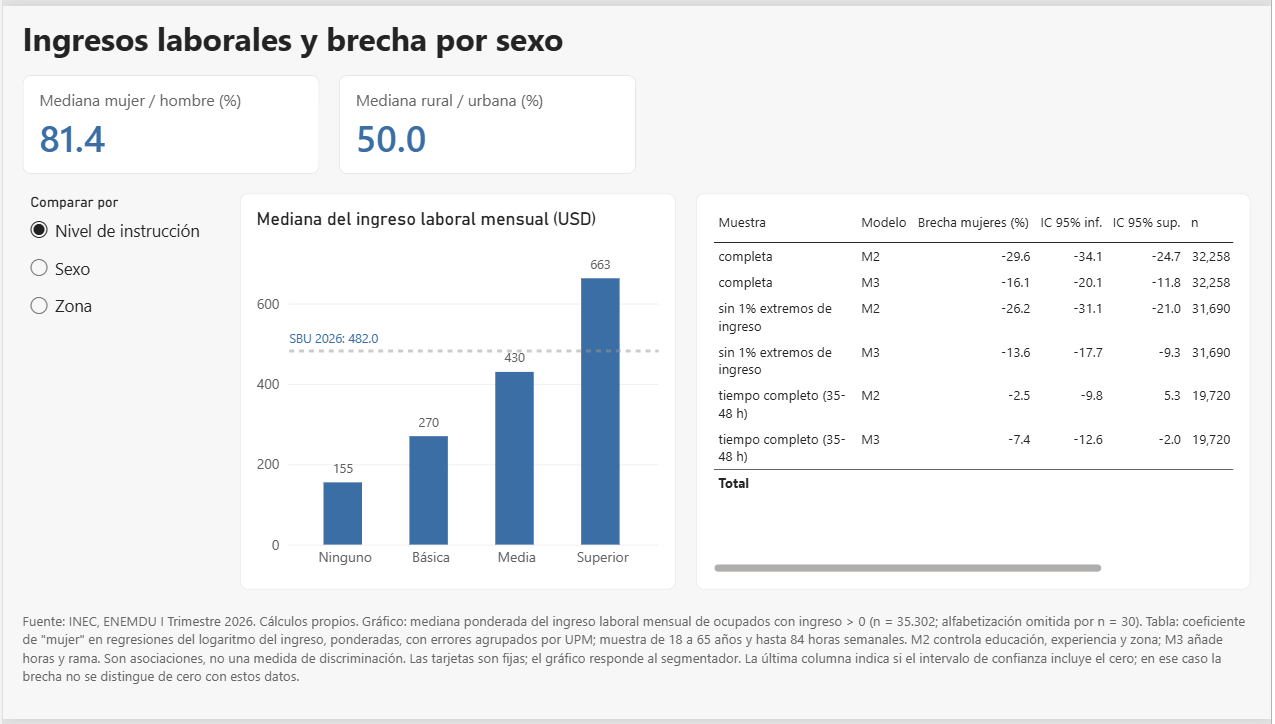
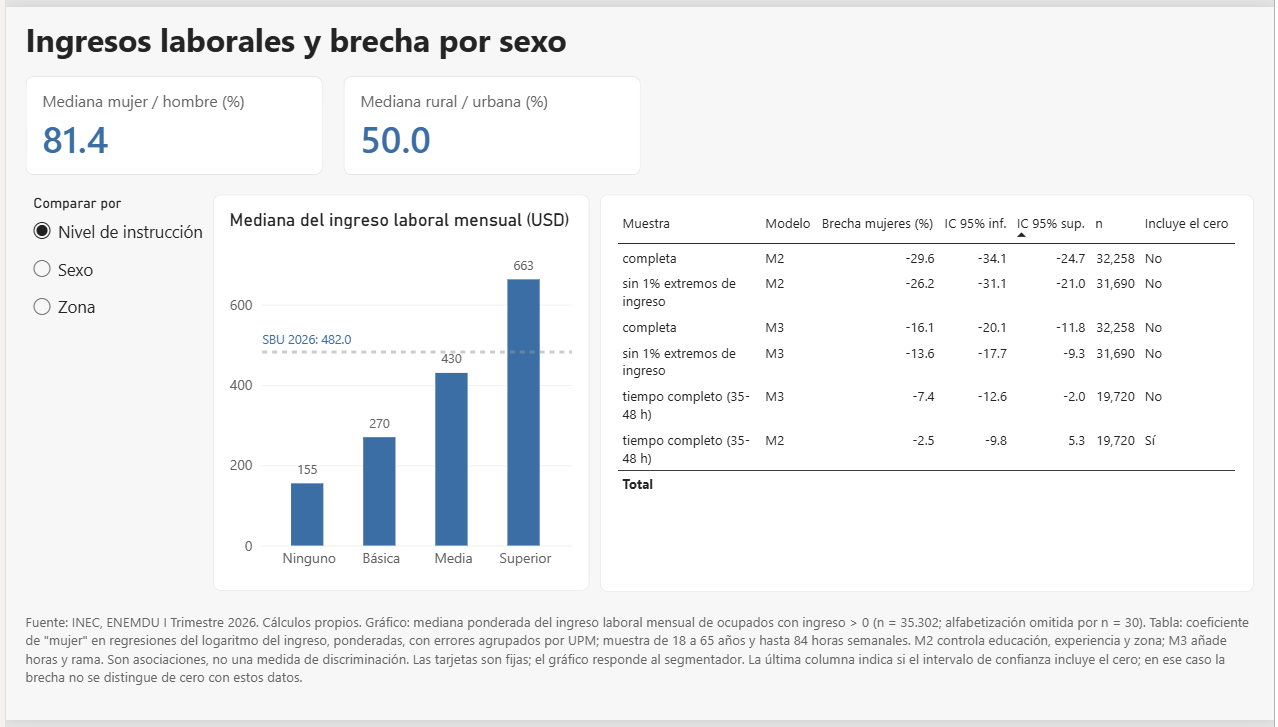
test: unit tests for weighted rates, weighted median, labor indicators and schooling years

diff --git a/tests/test_funciones.py b/tests/test_funciones.py
@@ -1,0 +1,41 @@
+# Pruebas
+
+import numpy as np
+import pandas as pd
+import pytest
+import unicodedata
+
+from src.data import tasa_ponderada, mediana_ponderada, indicadores_laborales
+from src.features import anios_estudio
+
+
+def test_tasa_ponderada():
+    df = pd.DataFrame({"fexp": [1, 3, 2, 4],
+                       "a": [True, True, False, False],
+                       "b": [True, True, True, False]})
+    assert tasa_ponderada(df, df["a"], df["b"]) == pytest.approx(100 * 4 / 6)
+
+
+def test_mediana_ponderada():
+    v = pd.Series([10, 20, 30])
+    assert mediana_ponderada(v, pd.Series([1, 1, 1])) == 20
+    assert mediana_ponderada(v, pd.Series([1, 1, 10])) == 30
+    assert mediana_ponderada(pd.Series([30, 10, 20]), pd.Series([10, 1, 1])) == 30
+
+
+def _sin_tildes(s):
+    return unicodedata.normalize("NFKD", s).encode("ascii", "ignore").decode().lower()
+
+
+def test_indicadores_laborales():
+    df = pd.DataFrame({"condact": [0, 1, 2, 4, 7, 9], "fexp": [1] * 6})
+    r = {_sin_tildes(k): v for k, v in indicadores_laborales(df).items()}
+    assert r["participacion global"] == pytest.approx(80)
+    assert r["empleo adecuado"] == pytest.approx(25)
+    assert r["subempleo"] == pytest.approx(25)
+    assert r["desempleo"] == pytest.approx(25)
+
+
+def test_anios_estudio():
+    df = pd.DataFrame({"p10a": [1, 4, 6, 7, 9, 10], "p10b": [np.nan, 6, 6, 3, 4, 2]})
+    assert anios_estudio(df).tolist() == [0, 6, 12, 13, 17, 19]

diff --git a/src/features.py b/src/features.py
@@ -1,3 +1,5 @@
+# Modulo de carga
+
 import numpy as np
 import pandas as pd
 

diff --git a/README.md b/README.md
@@ -2,7 +2,7 @@
 
 > Análisis de microdatos de la ENEMDU del INEC: indicadores laborales ponderados y validados contra las cifras oficiales, brechas por sexo y zona, informalidad e ingresos.
 
-**Estado:** en progreso. Completado: validación contra el INEC, análisis descriptivo (9 gráficos) y modelo de ingresos. Pendiente: SQL, dashboard e informe.
+**Estado:** completo (alcance mínimo), reports/informe_ejecutivo.pdf
 
 ## Hallazgo principal
 
@@ -160,7 +160,7 @@ Lo siguiente son explicaciones posibles de patrones medidos. Estos datos no las 
 ## Limitaciones
 
 1. La participación global difiere en 0,1 puntos de la cifra publicada (63,7 frente a 63,8). Con dos definiciones de PET se obtiene el mismo valor (63,745); la causa no está identificada.
-2. `ingrl` no pudo contrastarse con una cifra oficial. Se asume mensual y en dólares. Como verificación de plausibilidad, la mediana (USD 430) es cercana al SBU 2026 (USD 482) y el ingreso se comporta de forma coherente con la condición de actividad (con excepciones minoritarias que no se pudieron explicar).
+2. ingrl no pudo contrastarse con una cifra oficial para este trimestre. La metodología del INEC (2015) lo describe como ingreso laboral del mes anterior, de la actividad principal y la secundaria, y su sintaxis oficial recodifica −1 y 999999 como perdidos, igual que este proyecto. Se asume en dólares. No se verificó que esa metodología aplique sin cambios a la base de 2026. El ingreso de los independientes es neto de gastos y el de los asalariados incluye impuestos y aportes; no son estrictamente comparables.
 3. La base trimestral es representativa por dominio, no por provincia: las sumas de `fexp` por provincia no reproducen la población esperada. No se presentan resultados provinciales con esta base.
 4. Los años de estudio son una aproximación: convención propia y mezcla de sistemas educativos.
 5. La brecha de ingresos presentada es bruta; no controla por horas, ocupación ni educación. `[el modelo de Mincer la ajustará]`
